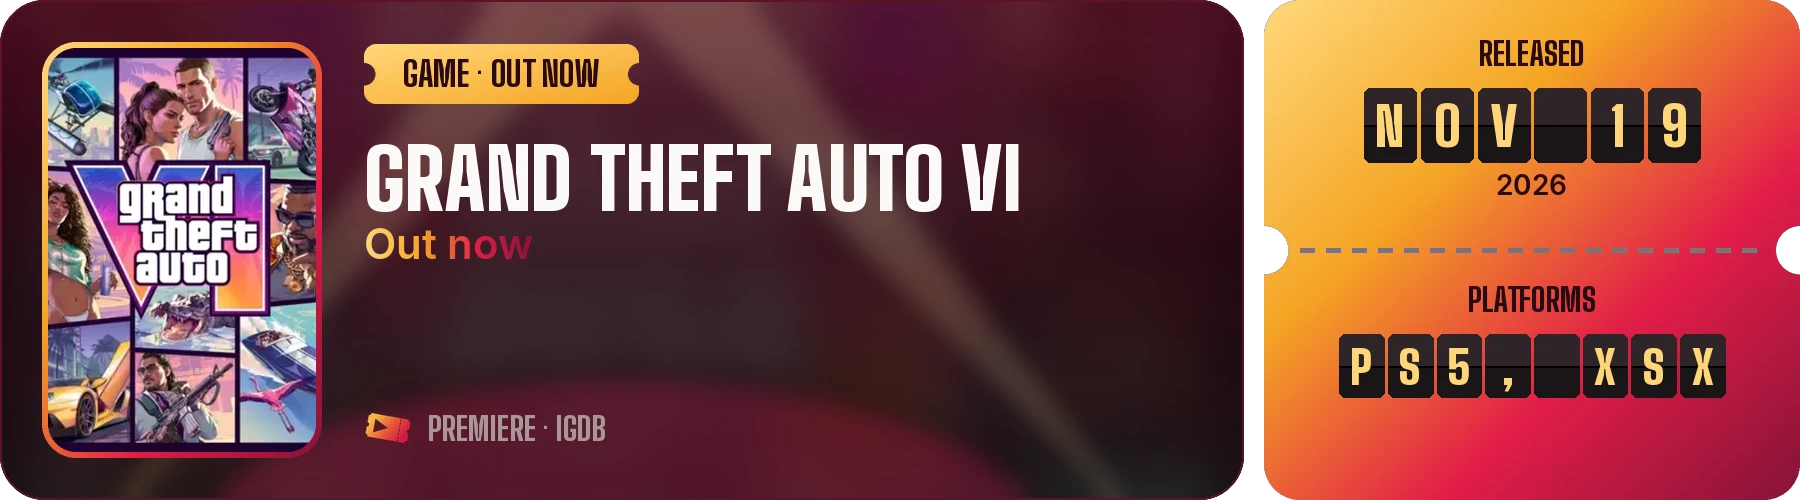
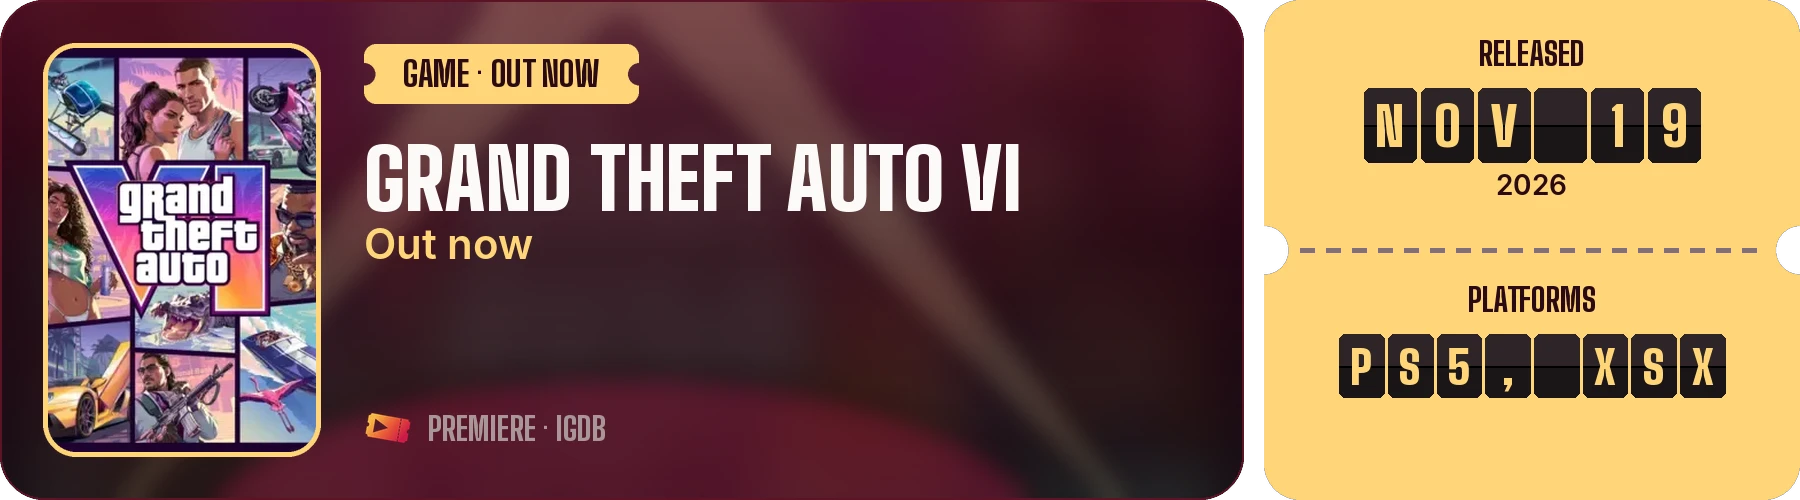
Keep the gradient for the ticket; credits for titles and artwork
- The gold-to-crimson gradient now appears only on the hero ticket (and
  the logo). Buttons, the contents list, headlines and the "What it
  follows" stubs use solid palette colours instead.
- Steel Ball Run's example card shows episode 2 as out now.
- Credits on every page (and in the terms): example titles and artwork
  belong to their owners, and Premiere isn't affiliated with them.

Claude-Session: https://claude.ai/code/session_011wgfKg9ShNBLNE5rtM9Seq

diff --git a/style.css b/style.css
@@ -76,10 +76,10 @@ code { font: 600 0.95em/1 var(--body); color: var(--champagne); }
 .site-nav a.nav-cta {
   padding: 9px 16px;
   border-radius: 999px;
-  background: var(--ticket);
+  background: var(--champagne);
   color: var(--ink);
   font-weight: 700;
-  box-shadow: 0 6px 24px -6px rgba(225, 29, 72, 0.7);
+  box-shadow: 0 6px 24px -8px rgba(255, 214, 120, 0.6);
 }
 .site-nav a.nav-cta:hover { color: var(--ink); filter: brightness(1.08); }
 
@@ -318,10 +318,10 @@ section { padding-block: clamp(48px, 8vw, 96px); }
 .pitch p { margin: 0; max-width: 58ch; font-size: 1.15rem; color: var(--paper); }
 .btn-glow {
   flex: none;
-  background: var(--ticket);
+  background: var(--champagne);
   color: var(--ink);
   padding-inline: 28px;
-  box-shadow: 0 10px 40px -10px rgba(225, 29, 72, 0.8);
+  box-shadow: 0 10px 40px -12px rgba(255, 214, 120, 0.7);
 }
 .btn-glow:hover { color: var(--ink); filter: brightness(1.08); }
 
@@ -338,11 +338,9 @@ section { padding-block: clamp(48px, 8vw, 96px); }
 .promises dt {
   font: 900 clamp(2rem, 4.4vw, 3.4rem)/0.92 var(--display);
   text-transform: uppercase;
-  background: var(--ticket);
-  -webkit-background-clip: text;
-          background-clip: text;
-  color: transparent;
+  color: var(--champagne);
 }
+.promises > div:nth-child(even) dt { color: var(--paper); }
 .promises dd { margin: 0; align-self: center; color: var(--paper-dim); font-size: 1.08rem; max-width: 52ch; }
 
 /* ── Closing call to action ─────────────────────────────────────────── */
@@ -362,7 +360,7 @@ section { padding-block: clamp(48px, 8vw, 96px); }
 .closing h2 { margin: 0 0 10px; font: 900 clamp(2.4rem, 5.4vw, 4.2rem)/0.9 var(--display); text-transform: uppercase; }
 .closing p { margin: 0; color: #f0d9dc; font-size: 1.12rem; }
 .closing-actions { display: grid; gap: 12px; }
-.closing .btn-primary { background: var(--ticket); color: var(--ink); }
+.closing .btn-primary { background: var(--champagne); color: var(--ink); }
 .closing .btn-secondary { background: rgba(255, 243, 228, 0.12); color: var(--paper); box-shadow: inset 0 0 0 2px rgba(255, 243, 228, 0.7); }
 .closing .stub-link { color: var(--champagne); }
 
@@ -419,11 +417,12 @@ section { padding-block: clamp(48px, 8vw, 96px); }
     radial-gradient(circle at 100% 62%, transparent var(--notch), #000 calc(var(--notch) + 1px)) right / 51% 100% no-repeat;
   transition: transform 220ms cubic-bezier(.2, .8, .2, 1);
 }
-.stub:nth-child(1) { background: linear-gradient(135deg, #ffe39b, #ffd678); transform: rotate(-3deg); }
-.stub:nth-child(2) { background: linear-gradient(135deg, #ffc35a, #f5a524); transform: rotate(2deg) translateY(10px); }
-.stub:nth-child(3) { background: linear-gradient(135deg, #ff8a6a, #ea5b38); transform: rotate(-1.5deg); }
-.stub:nth-child(4) { background: linear-gradient(135deg, #ff5a7e, #e11d48); transform: rotate(2.5deg) translateY(8px); }
-.stub:nth-child(5) { background: linear-gradient(135deg, #b8163f, #881337); color: var(--paper); transform: rotate(-2deg); }
+/* Solid colours walking along the palette (the gradient is kept for the hero ticket). */
+.stub:nth-child(1) { background: var(--champagne); transform: rotate(-3deg); }
+.stub:nth-child(2) { background: var(--amber); transform: rotate(2deg) translateY(10px); }
+.stub:nth-child(3) { background: var(--playbill); transform: rotate(-1.5deg); }
+.stub:nth-child(4) { background: #c8173f; color: var(--paper); transform: rotate(2.5deg) translateY(8px); }
+.stub:nth-child(5) { background: var(--velvet); color: var(--paper); transform: rotate(-2deg); }
 .stub:hover { transform: rotate(0) translateY(-6px); }
 .stub h3 { margin: 0 0 4px; font: 900 2.4rem/0.9 var(--display); text-transform: uppercase; }
 .stub p { margin: 0; font-weight: 500; font-size: 0.98rem; }
@@ -482,6 +481,7 @@ section { padding-block: clamp(48px, 8vw, 96px); }
 }
 .site-footer .links { display: flex; flex-wrap: wrap; gap: 8px 24px; margin-bottom: 14px; font-weight: 500; }
 .site-footer p { margin: 0; max-width: 90ch; }
+.site-footer .credits { margin-top: 10px; font-size: 0.82rem; opacity: 0.85; }
 
 /* ── Playbill: privacy policy and terms ─────────────────────────────── */
 .playbill-stage { padding-block: clamp(20px, 4vw, 48px) 80px; }
@@ -492,16 +492,16 @@ section { padding-block: clamp(48px, 8vw, 96px); }
   top: 24px;
   padding: 22px 22px 20px;
   border-radius: 14px;
-  background: var(--ticket);
-  color: var(--ink);
+  background: var(--playbill);
+  color: var(--playbill-ink);
   -webkit-mask: radial-gradient(circle at 50% 0, transparent 14px, #000 15px) top / 100% 51% no-repeat,
                 radial-gradient(circle at 50% 100%, transparent 14px, #000 15px) bottom / 100% 51% no-repeat;
           mask: radial-gradient(circle at 50% 0, transparent 14px, #000 15px) top / 100% 51% no-repeat,
                 radial-gradient(circle at 50% 100%, transparent 14px, #000 15px) bottom / 100% 51% no-repeat;
 }
-.toc p { margin: 0 0 10px; font: 900 1.5rem/1 var(--display); text-transform: uppercase; }
+.toc p { margin: 0 0 10px; font: 900 1.5rem/1 var(--display); text-transform: uppercase; color: var(--velvet); }
 .toc ol { margin: 0; padding: 0; list-style: none; display: grid; gap: 6px; }
-.toc a { color: var(--ink); font-weight: 600; font-size: 0.95rem; text-decoration: none; }
+.toc a { color: var(--playbill-ink); font-weight: 600; font-size: 0.95rem; text-decoration: none; }
 .toc a:hover { text-decoration: underline; }
 
 .playbill {

diff --git a/terms.html b/terms.html
@@ -66,6 +66,7 @@
 
     <h2 id="content-and-credits">Content and credits</h2>
     <p>Titles, descriptions and cover art belong to their owners and are shown to tell you about releases. Data comes from AniList, IGDB (Twitch) and TMDB; streaming availability comes from JustWatch via TMDB. This product uses the TMDB API but is not endorsed or certified by TMDB. Premiere is not affiliated with Discord or any of these services.</p>
+    <p>The titles and artwork shown on this site (including Grand Theft Auto VI, Steel Ball Run: JoJo's Bizarre Adventure and Spider-Man: Brand New Day) are examples only. All copyrights and trademarks remain with their original owners, and Premiere is not affiliated with, endorsed by or sponsored by them.</p>
 
     <h2 id="your-data">Your data</h2>
     <p>The <a href="privacy.html">privacy policy</a> explains what Premiere stores and how to delete it, including with <code>/delete-my-data</code>.</p>
@@ -86,6 +87,7 @@
         <a href="privacy.html">Privacy policy</a>
       </div>
       <p>Premiere is not affiliated with Discord. Need help? <a href="https://discord.gg/dvxegavKFR">Join the support server</a>.</p>
+      <p class="credits">All titles, artwork, copyrights and trademarks shown on this site remain with their original owners. Premiere is not affiliated with, endorsed by or sponsored by them.</p>
     </div>
   </footer>
 </body>

diff --git a/index.html b/index.html
@@ -195,6 +195,7 @@
         <a href="https://discord.gg/dvxegavKFR">Support server</a>
       </div>
       <p>Data from AniList, IGDB (Twitch) and TMDB. Streaming availability from JustWatch via TMDB. This product uses the TMDB API but is not endorsed or certified by TMDB. Premiere is not affiliated with Discord.</p>
+      <p class="credits">Grand Theft Auto VI, Steel Ball Run: JoJo's Bizarre Adventure and Spider-Man: Brand New Day, their names and artwork are shown only as examples of Premiere's alerts. All copyrights and trademarks remain with their original owners. Premiere is not affiliated with, endorsed by or sponsored by them, or by any studio, publisher or service mentioned on this site.</p>
     </div>
   </footer>
 

diff --git a/privacy.html b/privacy.html
@@ -100,6 +100,7 @@
         <a href="terms.html">Terms of service</a>
       </div>
       <p>Premiere is not affiliated with Discord. Need help? <a href="https://discord.gg/dvxegavKFR">Join the support server</a>.</p>
+      <p class="credits">All titles, artwork, copyrights and trademarks shown on this site remain with their original owners. Premiere is not affiliated with, endorsed by or sponsored by them.</p>
     </div>
   </footer>
 </body>
